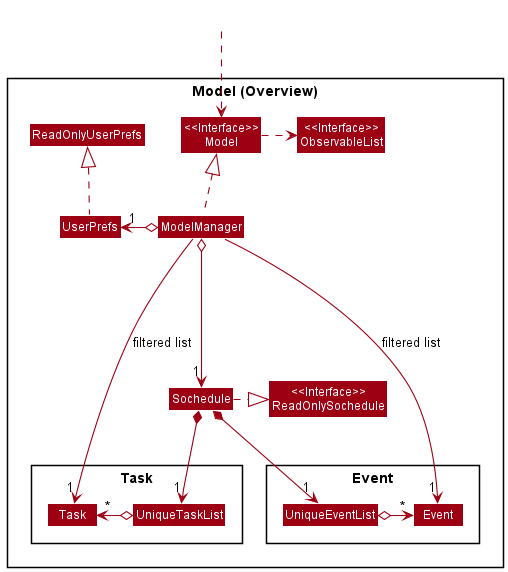
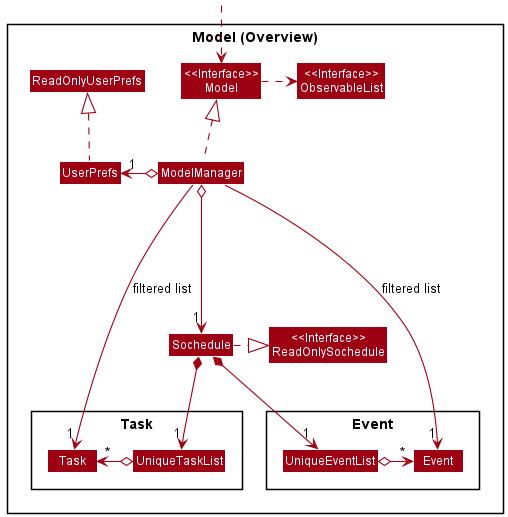
Shrink size of class diagram of model, activtity diagram for undone_task

diff --git a/docs/DeveloperGuide.md b/docs/DeveloperGuide.md
@@ -679,6 +679,7 @@ when calling the method `Model#updateFilteredTaskList(PREDICATE_SHOW_ALL_TASKS)`
 </div>
 
 The activity diagram that summaries what happens when users execute the `UndoneTaskCommand` can be found below.
+(For brevity, we assume user command format is valid and 'show errors' actions are omitted.)
 
 ![Activity Diagram of UndoneTask Command](images/UndoneTaskCommandActivityDiagram.png)
 
